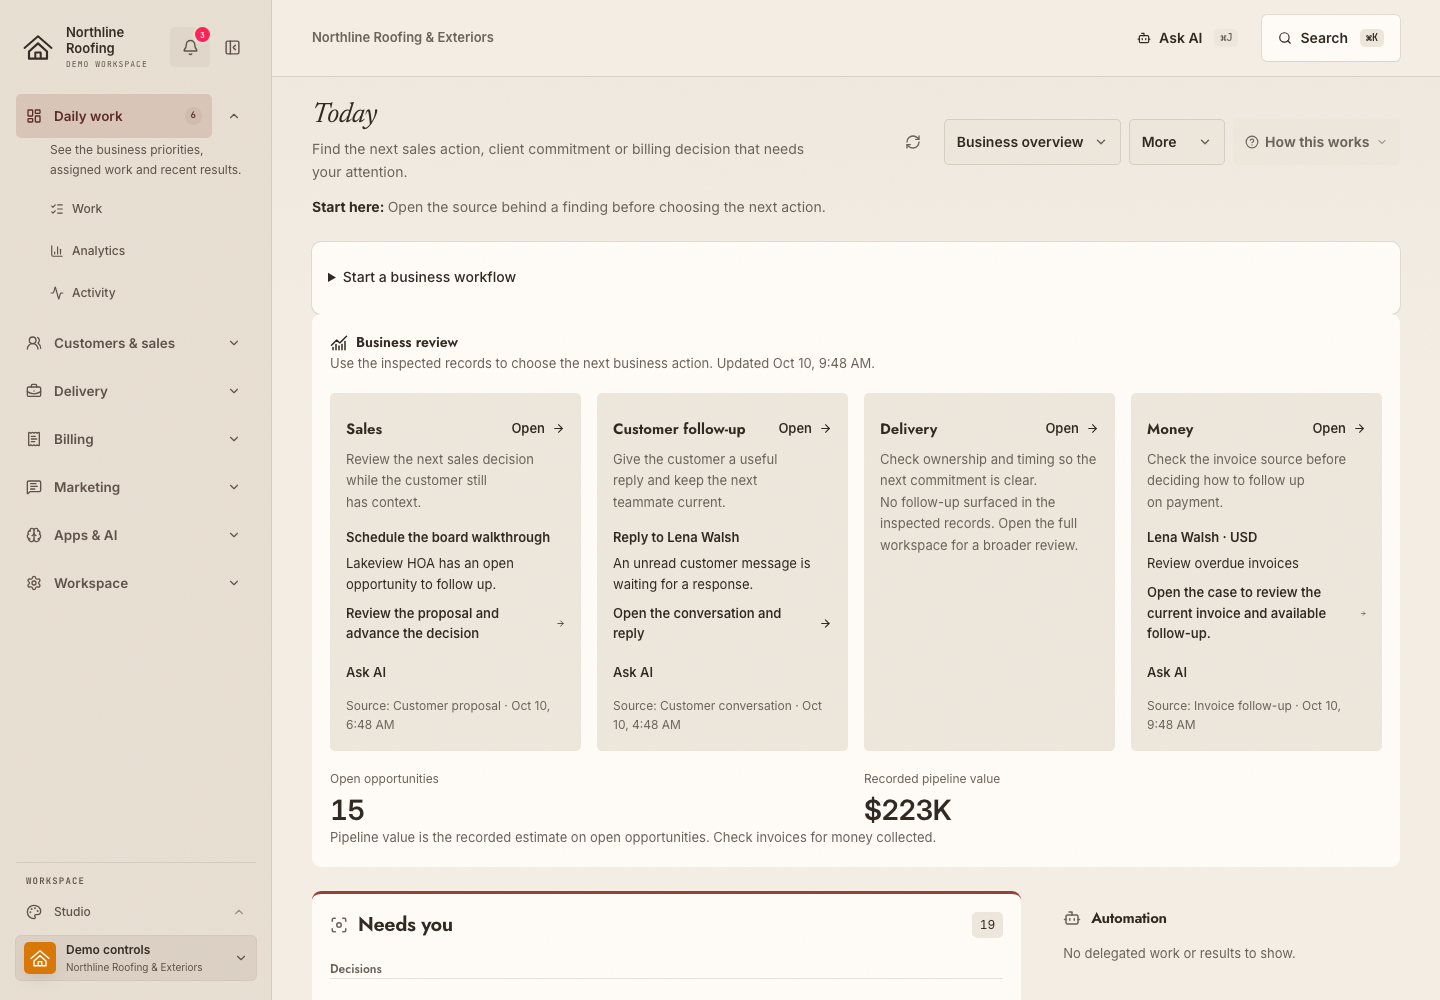
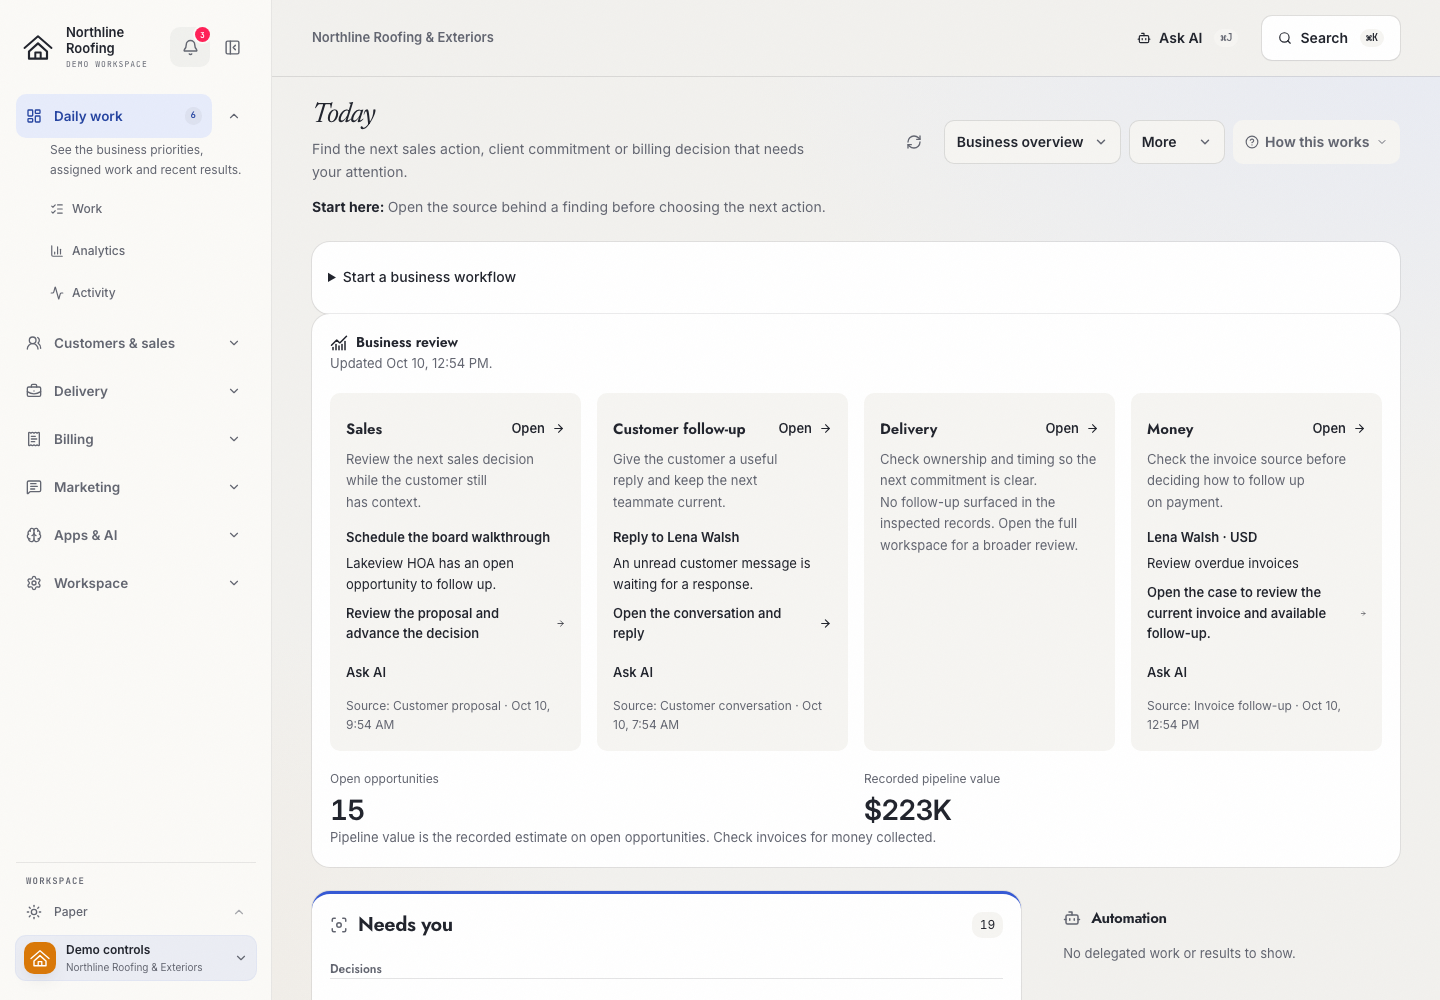
fix: remove repeated guidance and clarify AI approval rules

diff --git a/scripts/capture-product-screenshots.ts b/scripts/capture-product-screenshots.ts
@@ -1,5 +1,6 @@
 /** Refresh the public product gallery from the exact local fictional demo.
  * Run with the resource-gated local QA owner: QA_FOCUS=product npm run qa:admin-polish.
+ * For one screen, pass --only followed by its exact demo path to this script.
  * No customer records, external providers or authenticated admin API are used. */
 import assert from "node:assert/strict";
 import { mkdirSync } from "node:fs";
@@ -10,6 +11,11 @@ import { PRODUCT_SCREENSHOTS } from "../src/content/product-screenshots";
 const base = process.env.PLAYWRIGHT_BASE_URL || "http://localhost:3045";
 const origin = new URL(base).origin;
 assert.ok(["localhost", "127.0.0.1"].includes(new URL(base).hostname));
+const onlyIndex = process.argv.indexOf("--only");
+const only = onlyIndex < 0 ? null : process.argv[onlyIndex + 1];
+assert.ok(onlyIndex < 0 || only, "--only requires an exact demo path");
+const shots = PRODUCT_SCREENSHOTS.filter((shot) => !only || shot.demoHref === only);
+assert.ok(shots.length, "No product screenshot matches the selected demo path");
 const themes: Record<string, string> = {
   Paper: "light",
   Night: "dark",
@@ -20,7 +26,7 @@ const themes: Record<string, string> = {
 async function main() {
   const browser = await chromium.launch({ headless: true });
   try {
-    for (const shot of PRODUCT_SCREENSHOTS) {
+    for (const shot of shots) {
       const scenario = shot.demoHref.split("/")[3];
       const label = shot.caption?.split(" · ")[1]?.replace(" theme", "") || "";
       const theme = themes[label];

diff --git a/src/content/product-screenshots.ts b/src/content/product-screenshots.ts
@@ -15,8 +15,8 @@ export type ProductScreenshot = WorkImage & {
 export const PRODUCT_SCREENSHOTS: ProductScreenshot[] = [
   {
     kind: "image",
-    src: "/images/open-source/slide-today-paper-20261010.png",
-    alt: "Today, the operator priority queue and approval decisions, in the Paper appearance for a fictional roofing business.",
+    src: "/images/open-source/slide-today-paper-20261010-review.png",
+    alt: "Today, with sales, customer follow-up, delivery and billing reviews in the Paper appearance for a fictional roofing business.",
     caption: "Today · Paper theme",
     width: 1400,
     height: 875,

diff --git a/src/components/admin/TodayWorkspace.tsx b/src/components/admin/TodayWorkspace.tsx
@@ -537,7 +537,7 @@ export function TodayWorkspace() {
             </h2>
           </div>
           <p className={styles.muted}>
-            Use the inspected records to choose the next business action. Updated{" "}
+            Updated{" "}
             {dateLabel(snapshot.generatedAt, {
               month: "short",
               day: "numeric",

diff --git a/README.md b/README.md
@@ -17,7 +17,7 @@ Try six fictional businesses without an account or provider keys. When you are r
 
 [Live site](https://www.acceleratewith.us) · [Interactive fictional demo](https://www.acceleratewith.us/demo/command-center) · [How it works](https://www.acceleratewith.us/docs/start/how-it-works) · [Architecture](docs/self-hosting/ARCHITECTURE.md) · [Self-hosting](docs/self-hosting/SELF-HOSTING.md) · [Developer start](docs/contributing/DEVELOPER-START.md) · [All docs](docs/README.md) · [Roadmap](#roadmap)
 
-![The Today command center, showing a founder's priority queue, open pipeline value, and pending approvals for a fictional roofing company workspace.](docs/images/command-center-workspace.png)
+![Today showing sales, customer follow-up, delivery and billing reviews, plus recorded pipeline value in a fictional roofing workspace.](docs/images/command-center-workspace.png)
 
 > **Start here:** The fictional demo works with zero setup and no provider credentials. A connected workspace needs your own Supabase project. Verify sign-in, saved records, tenant isolation and backups before importing real customer data.
 
@@ -78,9 +78,9 @@ Never copy production credentials into a fork.
 
 **Analytics** ties revenue back to its source, by channel, campaign, and stage, and shows where attribution data is genuinely missing instead of quietly treating it as zero.
 
-**The AI layer is grounded, not generic.** Every model call runs against bounded, retrieved context with source citations, and every write it proposes goes through the same approval queue and audit trail as a human action. It doesn't get a side door around the rules everyone else follows.
+**AI can work with business records.** It can retrieve bounded customer context, link findings to source records and use registered operations to prepare or execute permitted work. Actions follow the existing permissions, impact tiers and audit trail. Consequential actions require approval.
 
-**Tenancy is structural, not bolted on.** One shared database, explicit tenant context on every request, isolated records, and a workspace can connect its own OpenRouter key so AI spend is billed to that tenant, not to you. Six fictional demo workspaces let you explore the entire product, including a live drag-and-drop feature-board kanban, with no setup at all.
+**Workspace records stay isolated.** Business requests use explicit workspace context and tenant-isolated records. A workspace can connect its own OpenRouter key; provider usage follows the configured credential owner. Six fictional demo workspaces let you explore the product, including a live drag-and-drop feature-board kanban, with no setup at all.
 
 See [Roadmap](#roadmap) below for what's shipped, in progress, and planned next.
 
@@ -102,7 +102,7 @@ Every run is traced in `agent_runs` and `agent_run_events` and readable at `/adm
 
 ## Connect your own assistant
 
-The repository ships a Model Context Protocol server. Claude Desktop, Claude Code, ChatGPT's native Connectors, Cursor, and Antigravity connect to a workspace and get the same registered tools, the same impact tiers, and the same approval queue as the interface. Ask it what's on today's queue, or to mark a task done, snooze it, or move an opportunity's stage: reads return bounded, sourced data, and every write it proposes lands in the same review queue you'd see from a human editing the record by hand.
+The repository ships a Model Context Protocol server. Claude Desktop, Claude Code, ChatGPT's native Connectors, Cursor, and Antigravity connect to a workspace and get the same registered tools, impact tiers and approval controls as the interface. Ask it what's on today's queue, or to mark a task done, snooze it or move an opportunity's stage. Reads return bounded, sourced data. Permissioned routine changes can execute under the existing action rules; consequential actions use the same approval queue as the interface.
 
 Setup for each client is in [docs/self-hosting/MCP-SETUP.md](docs/self-hosting/MCP-SETUP.md).
 
@@ -167,7 +167,7 @@ detail (`agent:go`); see [Natural-language agent execution](docs/contributing/NA
 
 [**/roadmap**](https://www.acceleratewith.us/roadmap) renders that manifest publicly, with every card's real description and acceptance criteria, no signup required. Each card has a stable shareable `/roadmap#roadmap-<seed-key>` link. A curated, dependency-satisfied subset — cards ready to pick up without waiting on other work — is also mirrored to [GitHub Issues labeled `help wanted`](https://github.com/JohnConnorCode/accelerate-site/issues?q=is%3Aissue+is%3Aopen+label%3A%22help+wanted%22) via `npm run mirror:feature-board-issues -- --apply`.
 
-You can also explore the same kanban UI the founder uses, populated with representative fictional data, inside any [demo workspace](https://www.acceleratewith.us/demo/command-center) under **System → Feature Board**. The live founder board at `/admin/features` requires authentication, so it isn't publicly browsable.
+You can also explore the same kanban UI the founder uses, populated with representative fictional data, inside any [demo workspace](https://www.acceleratewith.us/demo/command-center) under **Workspace → Feature Board**. The live founder board at `/admin/features` requires authentication, so it isn't publicly browsable.
 
 For exactly what changed and when, read [CHANGELOG.md](CHANGELOG.md) or the commit history rather than a second, hand-written summary here.
 

diff --git a/docs/verification/command-center-overhaul/README.md b/docs/verification/command-center-overhaul/README.md
@@ -82,12 +82,25 @@ The compact browser evidence files beside this receipt retain the outcomes and
 scenario coverage. Their recorded base commit identifies the starting checkout;
 the implementation candidate is the PR head containing this receipt.
 
-All local handoff checks passed:
+Recorded local handoff checks:
 
 The complete 87-command local core run used application commit `2d65ca51`. The
-later application change is confined to `AdminAIChat.tsx`. Its source fingerprint,
+shared-chat change is confined to `AdminAIChat.tsx`. Its source fingerprint,
 fresh build, strict lint, navigation contract and browser acceptance are recorded
-in [the handoff checks](handoff-checks.json). PR CI verifies the final candidate
+in [the handoff checks](handoff-checks.json). The later Today change removes one
+repeated instruction while retaining the update timestamp. Its actual gallery,
+docs and README captures were refreshed, with a new gallery filename and a
+regenerated private Site Studio draft. Screenshot descriptions now match the
+visible reviews. The README also names the current Workspace group and correctly
+distinguishes permissioned routine changes from consequential approvals.
+
+All eighteen remaining workspace checks pass against the complete local build
+after the Today cleanup. They include publishing and AI recovery, calendar,
+delivery, analytics, offline state, bookings and work completion. The final
+screenshot-alt metadata edit compiled and passed TypeScript, but the machine
+memory gate stopped static rendering at 12% available memory; the required
+minimum is 20%. The previous full build generated all 570 pages. PR CI verifies
+the exact final candidate's complete build and browser acceptance
 separately; the PR also retains the current preview-platform status.
 
 | Verification                                                          | Result                                                            |
